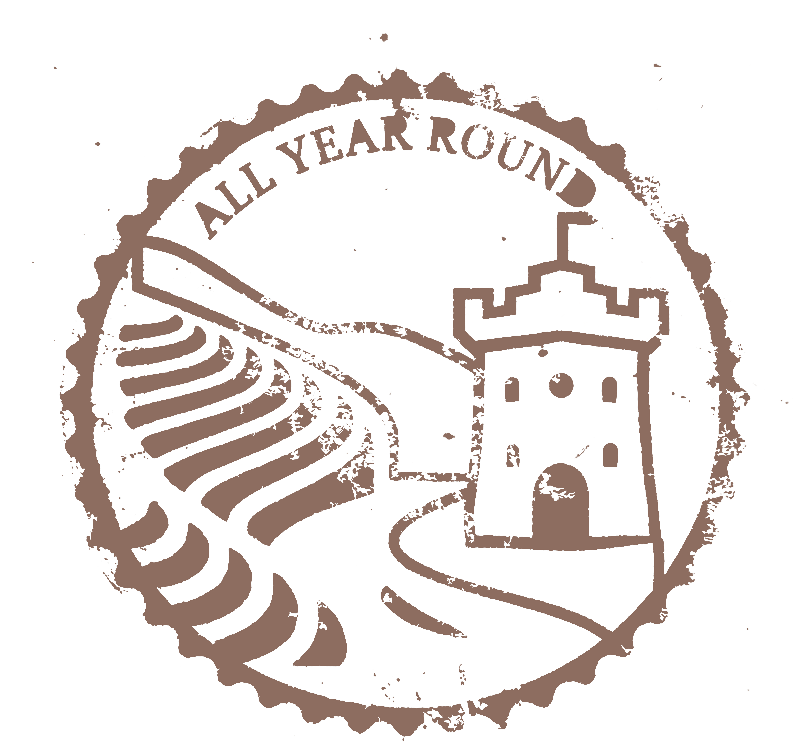
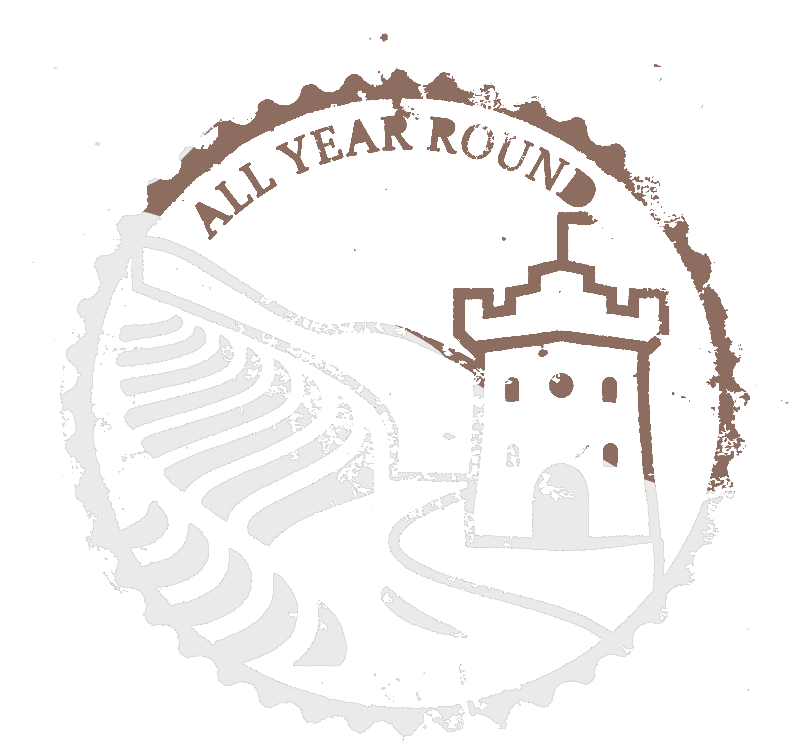
Add files via upload

diff --git a/index.html b/index.html
@@ -358,8 +358,8 @@
   .splash img.splash-watermark {
     position: absolute; z-index: 0; pointer-events: none;
     inset: auto; top: env(safe-area-inset-top); left: 0; bottom: auto; right: auto;
-    width: 110px; height: 110px;
-    object-fit: contain; opacity: 0.4;
+    width: 127px; height: 127px;
+    object-fit: contain; opacity: 0.6;
     mix-blend-mode: multiply;
   }
   .splash-content { position: relative; z-index: 1; padding: 0 var(--pad) calc(36px + env(safe-area-inset-bottom)); color: var(--cream-text); }

diff --git a/sw.js b/sw.js
@@ -1,4 +1,4 @@
-const CACHE = 'rhine-design-test-v78';
+const CACHE = 'rhine-design-test-v79';
 const ASSETS = ['./index.html', './manifest.json'];
 
 self.addEventListener('install', (event) => {
